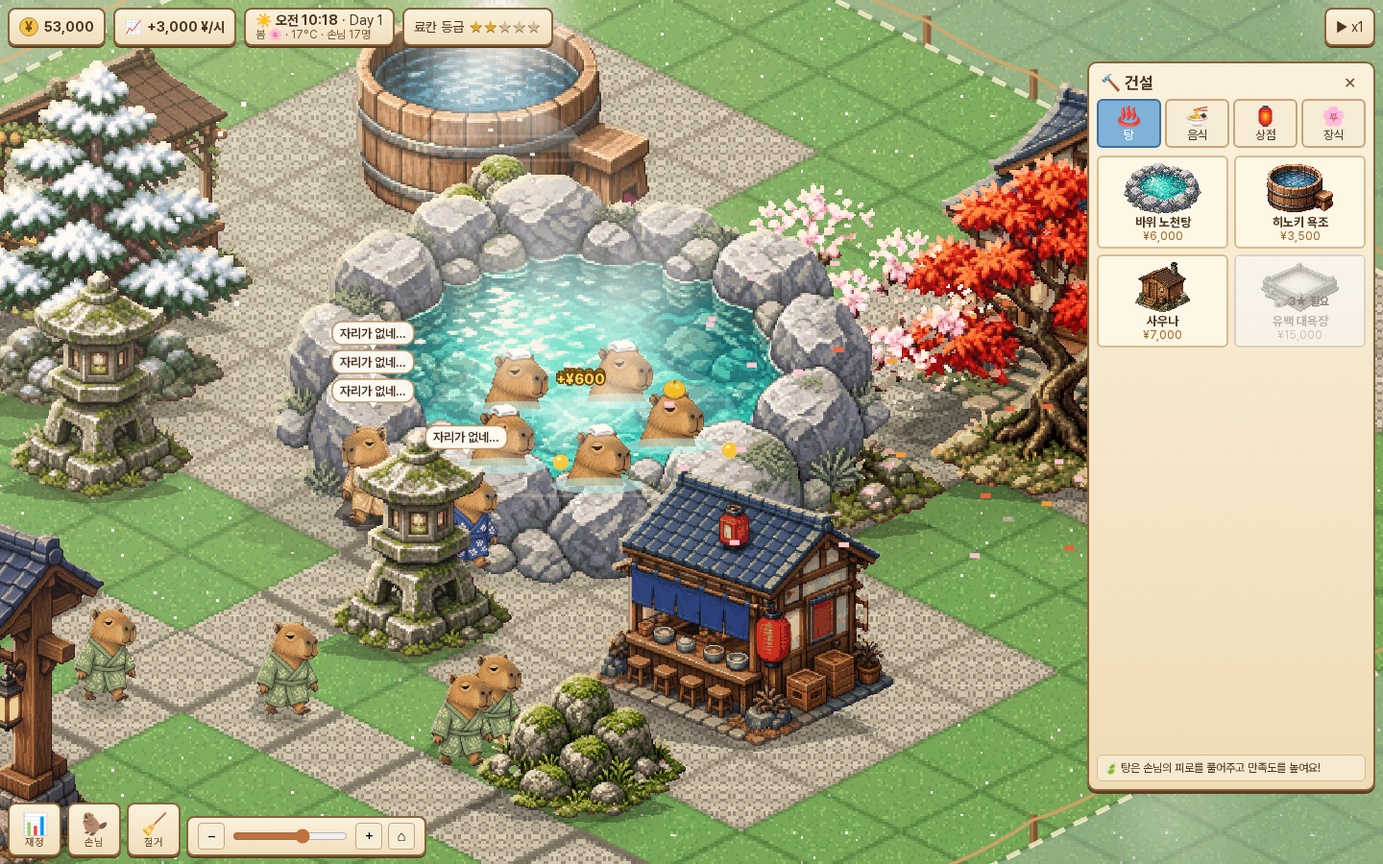
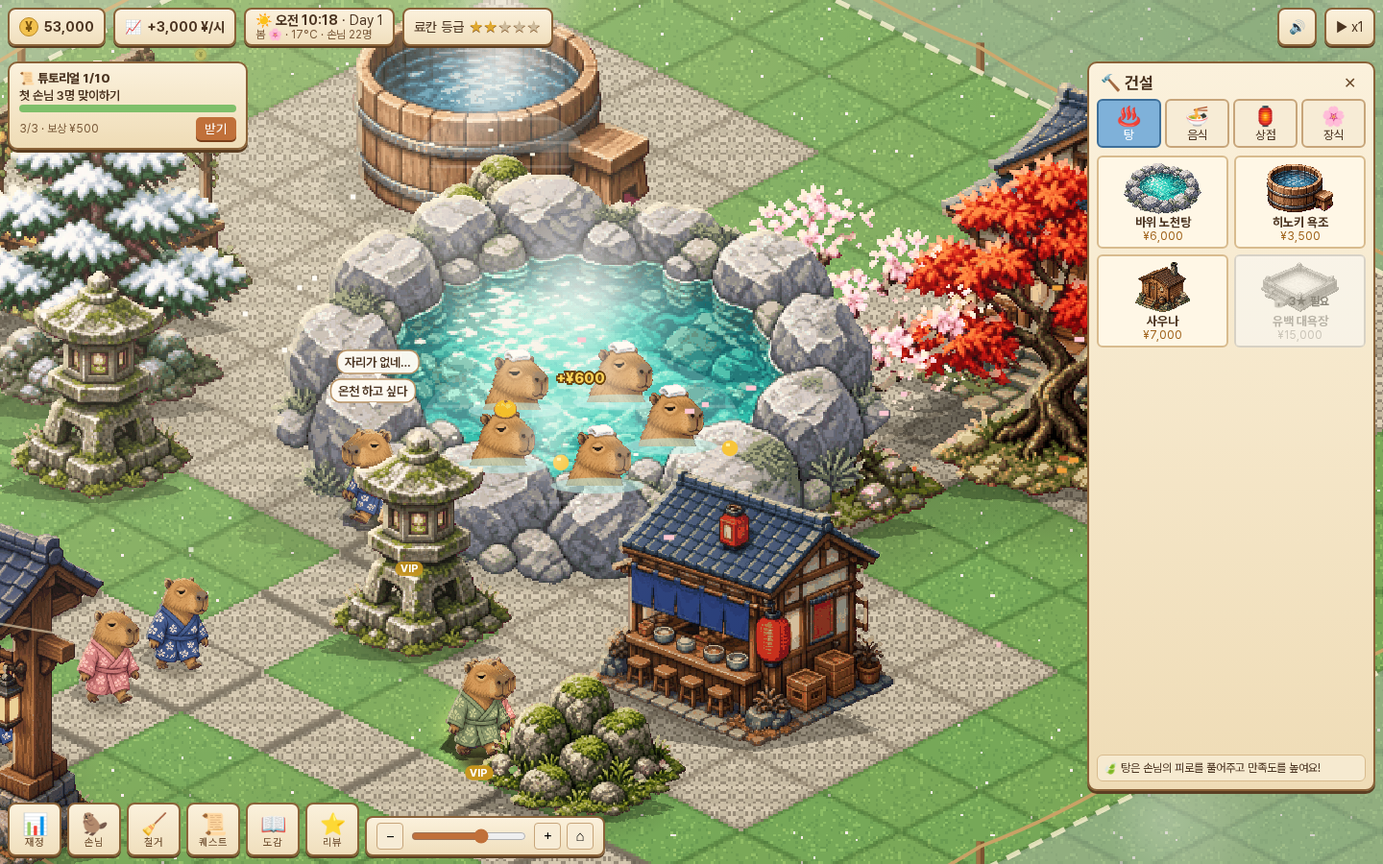
v2.4: gate 2.5D layers + z, multi-layer sprites, quests/milestones/collection/regulars/VIP/reviews, WebAudio SFX/BGM, juice, CHANGELOG

diff --git a/game.js b/game.js
@@ -1,4 +1,5 @@
 'use strict';
+const BUS={h:{},on(e,f){(this.h[e]=this.h[e]||[]).push(f)},emit(e,...a){for(const f of this.h[e]||[])try{f(...a)}catch(err){console.error(err)}}};
 // ===== 설정 =====
 const N=48,PS=16,TW=32,TH=16;           // 맵 24x24, 구역 6x6
 const START_PLOT=[1,1];
@@ -65,6 +66,18 @@ function avgNet(){const h=S.fin.hist;if(!h.length)return 0;const a=h.slice(-24);
 const TIERED=['rock','hinoki','sauna','milky','ramen','teishoku','izakaya','yuzu','gift','room'];
 const IMG={},VAR={};const NAMES=[...TIERED.flatMap(n=>[1,3,5].map(l=>n+'_lv'+l)),'rock','hinoki','sauna','milky','ramen','teishoku','izakaya','yuzu','gift','room','sakura','maple','pine','lantern','rocks','cb1','cb2','cb3','cb4','cw1','cw2','cw3','cw4','gate'];
 function loadImgs(){return Promise.all(NAMES.map(n=>new Promise(r=>{const i=new Image();i.onload=()=>{IMG[n]=i;r()};i.onerror=r;i.src='assets/'+n+'.png'})))}
+// 멀티 레이어 스프라이트: 마스크 경로 순서대로 픽셀을 잘라 레이어로 분리 (나머지 = ground)
+const roofY=(x,W,H)=>H*(0.294+0.144*x/W);
+const GATE_MASKS=[
+ ['roof',(g,W,H)=>{g.moveTo(0,0);g.lineTo(W,0);g.lineTo(W,roofY(W,W,H));g.lineTo(0,roofY(0,W,H));g.closePath()}],
+ ['noren',(g,W,H)=>{g.moveTo(W*0.274,0);g.lineTo(W*0.64,0);g.lineTo(W*0.64,H*0.6);g.lineTo(W*0.274,H*0.6);g.closePath()}],
+ ['front',(g,W,H)=>g.rect(W*0.625,0,W,H)],
+ ['back',(g,W,H)=>g.rect(0,0,W*0.41,H*0.8)]];
+const OVER={rock_lv5:0.5,milky_lv5:0.45,hinoki_lv5:0.55};
+function splitLayers(img,masks){const W=img.width,H=img.height,rest=mk(W,H),r=rest.getContext('2d');r.drawImage(img,0,0);const out={};
+ for(const[n,path]of masks){const c=mk(W,H),g=c.getContext('2d');g.drawImage(rest,0,0);g.globalCompositeOperation='destination-in';g.beginPath();path(g,W,H);g.fill();out[n]=c;
+  r.globalCompositeOperation='destination-out';r.beginPath();path(r,W,H);r.fill();r.globalCompositeOperation='source-over'}
+ out.ground=rest;return out}
 function mk(w,h){const c=document.createElement('canvas');c.width=w;c.height=h;return c}
 function variants(key,img,filter){ // 실루엣/림라이트 생성 (컴포지팅만 사용)
  const w=img.width,h=img.height,base=mk(w,h),bx=base.getContext('2d');if(filter)bx.filter=filter;bx.drawImage(img,0,0);
@@ -178,7 +191,7 @@ function spawnRate(){const h=hour();const f=h<6?0.05:h<9?0.5:h<12?0.7:h<15?0.6:h
 function spawn(){const gi=gateInfo();if(!gi)return;const[mx,my]=gi.m,[ox,oy]=gi.o;const vip=Math.random()<0.1*stars();const c=(k)=>[mx+0.5+ox*k,my+0.5+oy*k];const s0=c(5);
  guests.push({x:s0[0]+(Math.random()-0.5)*0.3,y:s0[1],tx:s0[0],ty:s0[1],path:[c(3),c(1),c(0)],st:'walk',spr:'cw'+(1+(Math.random()*4|0)),cb:'cb'+(1+(Math.random()*4|0)),
   need:{fatigue:50+Math.random()*45,hunger:20+Math.random()*60,thirst:20+Math.random()*60,fun:20+Math.random()*50},
-  budget:Math.round((2500+Math.random()*5000)*(vip?2.2:1)),happy:60,t:0,target:null,life:0,dir:1,bob:Math.random()*6,fade:0})}
+  budget:Math.round((2500+Math.random()*5000)*(vip?2.2:1)),happy:60,t:0,target:null,life:0,dir:1,bob:Math.random()*6,fade:0,vip});BUS.emit('spawn',guests[guests.length-1])}
 function pickTarget(g){
  const h=hour();
  if((h>=20||h<5)&&g.budget>2000){const r=S.objs.filter(o=>DEF[o.k].stay&&(o.users||0)<DEF[o.k].cap+o.lv-1);if(r.length)return pickBy(g,r,'fatigue')}
@@ -208,6 +221,7 @@ function bathSlot(o,i){const f=DEF[o.k].fp,c=ctr(o),n=DEF[o.k].cap+o.lv-1;const 
 function updGuest(g,dt){
  g.life+=dt;if(g.leaving&&g.path&&g.path.length<=1){g.fade=Math.max(0,g.fade-dt*1.4);if(g.fade<=0){g.dead=1;return}}else g.fade=Math.min(1,g.fade+dt*1.5);for(const k of NEEDK)g.need[k]=Math.min(100,g.need[k]+dt*(k=='fatigue'?0.2:0.9));
  g.happy=Math.max(0,Math.min(100,g.happy+(beautyAt(g.x,g.y)*0.02-0.03)*dt));
+ {const oc=OCC[(g.x|0)+','+(g.y|0)];const zt=oc&&oc.k=='gate'?3:0;g.z=(g.z||0)+(zt-(g.z||0))*Math.min(1,dt*9);if(oc&&oc.k=='gate'&&g.st=='walk')oc.sway=Math.min(0.35,(oc.sway||0)+dt*1.2)}
  if(g.st=='walk'){if(g.path&&g.path.length){g.tx=g.path[0][0];g.ty=g.path[0][1]}const dx=g.tx-g.x,dy=g.ty-g.y,d=Math.hypot(dx,dy);
   if(d<=0.05&&g.path&&g.path.length){g.path.shift();return}
   if(d>0.05){const sp=1.3*dt;g.x+=dx/d*Math.min(sp,d);g.y+=dy/d*Math.min(sp,d);g.dir=(dx-dy)>=0?1:-1;return}
@@ -226,7 +240,7 @@ function arrive(g){const o=g.target,d=DEF[o.k];g.target=null;o.users=o.users||0;
  const cap=d.cap+o.lv-1;if(o.users>=cap){think(g,'자리가 없네…');g.happy-=4;(g.used=g.used||[]).push(o);return}
  const fair=d.price*(1+o.lv*0.12)*(0.8+g.happy/150);
  if(o.price>g.budget||o.price>fair*1.45){think(g,THOUGHT.pricey[Math.random()*3|0]);g.happy-=10;(g.used=g.used||[]).push(o);return}
- g.budget-=o.price;S.yen+=o.price;S.fin.inc+=o.price;o.earn=(o.earn||0)+o.price;o.uses=(o.uses||0)+1;S.served++;
+ g.budget-=o.price;S.yen+=o.price;S.fin.inc+=o.price;o.earn=(o.earn||0)+o.price;o.uses=(o.uses||0)+1;S.served++;BUS.emit('pay',o,g,o.price);
  const[sx,sy]=toScreenT(...ctr(o));floats.push({x:ctr(o)[0],y:ctr(o)[1],t:'+¥'+fmt(o.price),l:1.6});
  o.users++;g.cur=o;g.st='use';g.t=d.stay?Math.max(30,((30-hour()+24)%24+7)*60/120):d.dur*(1+o.lv*0.1);
  if(d.bath){g.slot=freeSlot(o);const[a,b]=bathSlot(o,g.slot);g.x=a;g.y=b;g.inBath=true}else g.hide=true;
@@ -236,7 +250,7 @@ function arrive(g){const o=g.target,d=DEF[o.k];g.target=null;o.users=o.users||0;
 function freeSlot(o){const used=guests.filter(x=>x.cur===o&&x.inBath).map(x=>x.slot);for(let i=0;i<20;i++)if(!used.includes(i))return i;return 0}
 function finish(g){const o=g.cur;if(o)o.users=Math.max(0,o.users-1);(g.used=g.used||[]).push(o);if(g.used.length>3)g.used.shift();
  g.cur=null;g.hide=false;const[a,b]=door(o);g.x=a;g.y=b;g.inBath=false;g.st='walk';g.tx=g.x;g.ty=g.y;g.path=[]}
-function leave(g){g.leaving=true;g.target=null;const gi=gateInfo();if(!gi){g.dead=1;return}const[mx,my]=gi.m,[ox,oy]=gi.o;if(!goTo(g,mx,my))g.path=[[mx+0.5,my+0.5]];g.path.push([mx+0.5+ox*1.5,my+0.5+oy*1.5],[mx+0.5+ox*4,my+0.5+oy*4]);
+function leave(g){if(!g.leaving)BUS.emit('leave',g);g.leaving=true;g.target=null;const gi=gateInfo();if(!gi){g.dead=1;return}const[mx,my]=gi.m,[ox,oy]=gi.o;if(!goTo(g,mx,my))g.path=[[mx+0.5,my+0.5]];g.path.push([mx+0.5+ox*1.5,my+0.5+oy*1.5],[mx+0.5+ox*4,my+0.5+oy*4]);
  S.rep=S.rep*0.97+g.happy*0.03;if(g.happy>70&&Math.random()<0.5)think(g,'또 올게요~');}
 const toScreenT=(x,y)=>{const[a,b]=iso(x,y);return toScreen(a,b)};
 function upFx(o){const f=DEF[o.k].fp,c=ctr(o);for(let i=0;i<70;i++){const a=Math.random()*6.28,r=Math.random()*f*0.6;parts.push({k:'spark',x:c[0]+Math.cos(a)*r,y:c[1]+Math.sin(a)*r,h:Math.random()*10,vh:12+Math.random()*25,l:1.2+Math.random(),L:2})}
@@ -249,7 +263,7 @@ function emit(dt){
   if(d.emit&&Math.random()<dt*2.2){parts.push({k:d.emit,x:o.x+0.5+(Math.random()-0.5)*4,y:o.y+0.5+(Math.random()-0.5)*4,h:30+Math.random()*25,vx:0,l:6,L:6,ph:Math.random()*6})}}
  if(season()==3&&Math.random()<dt*6){const r=rng(Date.now()|0);parts.push({k:'snow',x:Math.random()*N,y:Math.random()*N,h:60,l:8,L:8,ph:Math.random()*6})}
 }
-function updParts(dt){for(const p of parts){p.l-=dt;if(p.k=='spark'){p.h+=p.vh*dt;p.vh*=0.96;continue}if(p.k=='dust'){p.x+=p.vx*dt;p.y+=p.vy*dt;p.vx*=0.92;p.vy*=0.92;continue}if(p.k=='steam'){p.h+=dt*9;p.x+=p.vx*dt;p.s+=dt*2.5}else{if(p.h>0){p.h-=dt*(p.k=='snow'?6:8);p.ph+=dt*2;p.x+=Math.sin(p.ph)*dt*0.25+dt*0.12}else{p.h=0;p.l=Math.min(p.l,1.5)}}}
+function updParts(dt){for(const o of S.objs)if(o.sway)o.sway=Math.max(0,o.sway-dt*0.35);for(const p of parts){p.l-=dt;if(p.k=='spark'){p.h+=p.vh*dt;p.vh*=0.96;continue}if(p.k=='dust'){p.x+=p.vx*dt;p.y+=p.vy*dt;p.vx*=0.92;p.vy*=0.92;continue}if(p.k=='steam'){p.h+=dt*9;p.x+=p.vx*dt;p.s+=dt*2.5}else{if(p.h>0){p.h-=dt*(p.k=='snow'?6:8);p.ph+=dt*2;p.x+=Math.sin(p.ph)*dt*0.25+dt*0.12}else{p.h=0;p.l=Math.min(p.l,1.5)}}}
  parts=parts.filter(p=>p.l>0);floats.forEach(f=>f.l-=dt);floats=floats.filter(f=>f.l>0);bubbles.forEach(b=>b.l-=dt);bubbles=bubbles.filter(b=>b.l>0&&!b.g.dead&&!b.g.hide);
  for(const k in anims){anims[k].t+=dt;if(anims[k].t>1.6)delete anims[k]}}
 // ===== 렌더 =====
@@ -280,7 +294,9 @@ function render(t){
  if(paint){const{t}=paintPlan();const er=DEF[ghost].erase;cx.fillStyle=er?'rgba(240,110,100,0.5)':'rgba(140,230,140,0.5)';for(const[x,y]of t){const[X,Y]=iso(x,y);cx.beginPath();cx.moveTo(X,Y);cx.lineTo(X+16,Y+8);cx.lineTo(X,Y+16);cx.lineTo(X-16,Y+8);cx.fill()}}
  // 그림자 + 오브젝트 + 손님 정렬
  const list=[];
- for(const o of S.objs){if(!!DEF[o.k].isPath||o===moving)continue;const t=tilesOf(o),l=t[t.length-1];list.push({x0:o.x,y0:o.y,x1:l[0]+1,y1:l[1]+1,o})}
+ for(const o of S.objs){if(!!DEF[o.k].isPath||o===moving)continue;const t=tilesOf(o),l=t[t.length-1];
+  if(o.k=='gate'){list.push({x0:t[0][0],y0:t[0][1],x1:t[0][0]+1,y1:t[0][1]+1,o,part:'back'});list.push({x0:l[0],y0:l[1],x1:l[0]+1,y1:l[1]+1,o,part:'front'});continue}
+  list.push({x0:o.x,y0:o.y,x1:l[0]+1,y1:l[1]+1,o})}
  for(const g of guests)if(!g.hide&&!g.inBath)list.push({x0:g.x-0.15,y0:g.y-0.15,x1:g.x+0.15,y1:g.y+0.15,g});
  list.forEach(a=>a.z=a.x1+a.y1);
  const cmp=(a,b)=>{if(a.x1<=b.x0+1e-3&&!(b.x1<=a.x0))return a.y0>=b.y1?1:-1;if(b.x1<=a.x0+1e-3)return b.y0>=a.y1?-1:1;if(a.y1<=b.y0+1e-3)return -1;if(b.y1<=a.y0+1e-3)return 1;return a.z-b.z};
@@ -291,13 +307,17 @@ function render(t){
   const pts=guests.filter(g=>!g.hide&&!g.inBath&&g.x<it.x1&&g.y<it.y1&&!(g.x>=it.x0&&g.y>=it.y0)&&(g.x+g.y)<it.x1+it.y1-0.5).map(g=>iso(g.x,g.y));
   if(hoverT&&ghost)pts.push(iso(hoverT[0]+0.5,hoverT[1]+0.5));
   if(pts.some(([X,Y])=>Math.abs(X-G.X)<G.W*0.42&&Y<G.Y-6&&Y>G.Y-G.H*0.9))hidden.add(o)}
- for(const it of list)if(it.o){const o=it.o,G=objGeom(o),key=skey(o);ao(G.X,G.cY,G.W*0.5,G.W*0.25,0.3);drawShadow(key,G.X,G.Y,G.W,lt,sv,DEF[o.k].bath?0.4:1)}
+ for(const it of list)if(it.o&&it.part!='front'){const o=it.o,G=objGeom(o),key=skey(o);if(o.k=='gate'){drawSprite(key+'_ground',o,G.X,G.Y,G.W,lt,sv,1)}ao(G.X,G.cY,G.W*0.5,G.W*0.25,0.3);drawShadow(key,G.X,G.Y,G.W,lt,sv,DEF[o.k].bath?0.4:1)}
  for(const it of list){
-  if(it.o){const o=it.o,d=DEF[o.k],G=objGeom(o);const an=anims['o'+S.objs.indexOf(o)];const pop=an?Math.min(1,an.t*3):1;
+  if(it.part){const o=it.o,G=objGeom(o);drawSprite(skey(o)+'_'+it.part,o,G.X,G.Y,G.W,lt,sv,1)}
+  else if(it.o){const o=it.o,d=DEF[o.k],G=objGeom(o);const an=anims['o'+S.objs.indexOf(o)];const pop=an?Math.min(1,an.t*3):1;
    const Wp=G.W*(0.7+0.3*easeOut(pop));const fade=hidden.has(o)&&!d.bath&&d.fp>1;drawSprite(skey(o),o,G.X,G.Y,Wp,lt,sv,pop*(fade?0.5:1));
-   if(d.bath){drawWater(o,G,t,lt);guests.filter(g=>g.inBath&&g.cur===o).sort((a,b)=>a.x+a.y-b.x-b.y).forEach(g=>drawGuest(g,t,lt,sv))}
+   if(d.bath){drawWater(o,G,t,lt);guests.filter(g=>g.inBath&&g.cur===o).sort((a,b)=>a.x+a.y-b.x-b.y).forEach(g=>drawGuest(g,t,lt,sv));const ov=skey(o)+'_over';if(VAR[ov]&&guests.some(g=>g.inBath&&g.cur===o))drawSprite(ov,o,G.X,G.Y,Wp,lt,sv,pop)}
    if(o.lv>1){for(let i=0;i<o.lv-1;i++){cx.fillStyle='#f6cf5a';cx.fillRect(G.X-8+i*4,G.Y+1,3,3)}}}
   else drawGuest(it.g,t,lt,sv);}
+ // 대문 지붕·노렌 (항상 손님 위) + 노렌 흔들림
+ for(const o of S.objs){if(o.k!='gate'||o===moving)continue;const G=objGeom(o),k=skey(o);drawSprite(k+'_roof',o,G.X,G.Y,G.W,lt,sv,1);
+  const sw=Math.sin(t/140)*(o.sway||0);const top=G.Y-G.H*0.66;cx.save();cx.translate(G.X,top);cx.transform(1,0,sw*(o.dir=='y'?-1:1),1,0,0);cx.translate(-G.X,-top);drawSprite(k+'_noren',o,G.X,G.Y,G.W,lt,sv,1);cx.restore()}
  // 파티클
  for(const p of parts){const[X,Y]=iso(p.x,p.y);const a=Math.min(1,p.l/p.L*2)*(p.k=='steam'?1:1);
   if(p.k=='steam'){cx.globalAlpha=0.22*Math.min(1,p.l)*(1-0.4*lt.night);const r=p.s;const g=cx.createRadialGradient(X,Y-p.h,0,X,Y-p.h,r);g.addColorStop(0,'rgba(255,255,255,1)');g.addColorStop(1,'rgba(255,255,255,0)');cx.fillStyle=g;cx.fillRect(X-r,Y-p.h-r,r*2,r*2)}
@@ -351,13 +371,13 @@ function drawWater(o,G,t,lt){const d=DEF[o.k],f=d.fp;const[cX,cY]=iso(o.x+f/2,o.
  const r=rng(Math.floor(t/220)+o.x*31);for(let i=0;i<10;i++){const a=r()*6.28,rr=Math.sqrt(r());cx.fillStyle=`rgba(255,255,240,${0.5+0.5*lt.sun})`;cx.fillRect(cX+Math.cos(a)*rx*rr,cY+Math.sin(a)*ry*rr,1,0.6)}
  if(lt.night>0.4){cx.fillStyle=`rgba(255,200,120,${0.12*lt.night})`;cx.fillRect(cX-rx,cY-ry,rx*2,ry*2)}
  cx.restore();}
-function drawGuest(g,t,lt,sv){const[X,Y]=iso(g.x,g.y);
+function drawGuest(g,t,lt,sv){const[X,Y]=iso(g.x,g.y);if(g.vip||g.reg){cx.save();cx.globalCompositeOperation='lighter';const gr=cx.createRadialGradient(X,Y-6,0,X,Y-6,12);gr.addColorStop(0,g.vip?'rgba(255,215,90,0.35)':'rgba(140,200,255,0.28)');gr.addColorStop(1,'rgba(0,0,0,0)');cx.fillStyle=gr;cx.fillRect(X-12,Y-18,24,24);cx.restore()}
  if(g.inBath){const v=VAR[g.cb];if(!v)return;const W=17,h=W*v.base.height/v.base.width,bob=Math.sin(t/600+g.bob)*0.4,ch=h*0.8;
   cx.drawImage(v.base,0,0,v.base.width,v.base.height*0.8,X-W/2,Y-ch+2+bob,W,ch);
   cx.fillStyle='rgba(180,240,240,0.55)';cx.beginPath();cx.ellipse(X,Y+2+bob,W*0.55,1.6,0,0,6.283);cx.fill();
   if(g.slot%3==1){const yx=X+W*0.7,yy=Y+2+Math.sin(t/700+g.bob)*0.6;cx.fillStyle='#f6c431';cx.beginPath();cx.arc(yx,yy,1.6,0,6.283);cx.fill();cx.fillStyle='#fff3a0';cx.fillRect(yx-0.8,yy-1,0.8,0.6)}
   return}
- const v=VAR[g.spr];if(!v)return;const W=14,h=W*v.base.height/v.base.width;const moving=Math.hypot(g.tx-g.x,g.ty-g.y)>0.05;const bob=moving?Math.abs(Math.sin(t/120+g.bob))*1.2:0;
+ const v=VAR[g.spr];if(!v)return;const W=14,h=W*v.base.height/v.base.width;const moving=Math.hypot(g.tx-g.x,g.ty-g.y)>0.05;const bob=(moving?Math.abs(Math.sin(t/120+g.bob))*1.2:0)+(g.z||0);
  cx.globalAlpha=g.fade;ao(X,Y,5,2.2,0.35);
  if(lt.sun>0.1){cx.save();cx.globalAlpha=0.25*lt.sun*g.fade;cx.translate(X,Y);cx.transform(1,0,-sv.kx,sv.ky,0,0);cx.drawImage(v.sil,-W/2,-h,W,h);cx.restore()}
  cx.globalAlpha=g.fade;cx.save();cx.translate(X,Y-bob);cx.scale(g.dir,1);cx.drawImage(v.base,-W/2,-h,W,h);if(lt.sun>0.15){cx.globalAlpha=0.45*lt.sun*g.fade;cx.drawImage(sv.left?v.rimL:v.rimR,-W/2,-h,W,h)}cx.restore();cx.globalAlpha=1}
@@ -371,9 +391,10 @@ function drawPlots(t,lt){const P=N/PS;window._signs=[];
   // 안개 덩어리
   const r=rng(px*7+py*13+3);for(let i=0;i<14;i++){const fx=x0+r()*PS,fy=y0+r()*PS;const[X,Y]=iso(fx,fy);const s=10+r()*10;const g=cx.createRadialGradient(X+Math.sin(t/4000+i)*6,Y,0,X,Y,s);g.addColorStop(0,`rgba(255,255,255,${0.22*fog})`);g.addColorStop(1,'rgba(255,255,255,0)');cx.fillStyle=g;cx.fillRect(X-s,Y-s,s*2,s*2)}cx.restore();
   if(!open&&plotAdj(px,py)){ // 로프 울타리
-   cx.strokeStyle='#c9a46a';cx.lineWidth=0.7;for(let e=0;e<4;e++){const a=c[e],b=c[(e+1)%4];
-    for(let s=0;s<=12;s++){const X=lerp(a[0],b[0],s/12),Y=lerp(a[1],b[1],s/12);cx.fillStyle='#7a5432';cx.fillRect(X-0.8,Y-6,1.6,6);cx.fillStyle='#a07448';cx.fillRect(X-0.8,Y-6,0.8,6)}
-    cx.beginPath();for(let s=0;s<12;s++){const X1=lerp(a[0],b[0],s/12),Y1=lerp(a[1],b[1],s/12),X2=lerp(a[0],b[0],(s+1)/12),Y2=lerp(a[1],b[1],(s+1)/12);cx.moveTo(X1,Y1-5);cx.quadraticCurveTo((X1+X2)/2,(Y1+Y2)/2-3,X2,Y2-5)}cx.stroke()}
+   const T=[[x0,y0],[x0+PS,y0],[x0+PS,y0+PS],[x0,y0+PS]];const gi=gateInfo();const gm=gi?[gi.m[0]+0.5+gi.o[0]*0.5,gi.m[1]+0.5+gi.o[1]*0.5]:null;const NS=8;
+   cx.strokeStyle='#c9a46a';cx.lineWidth=0.7;for(let e=0;e<4;e++){const A=T[e],B=T[(e+1)%4];const P=k=>[lerp(A[0],B[0],k/NS),lerp(A[1],B[1],k/NS)];const skip=k=>{if(!gm)return false;const p=P(k+0.5);return Math.hypot(p[0]-gm[0],p[1]-gm[1])<1.7};
+    for(let k=0;k<=NS;k++){if(skip(k)&&skip(k-1))continue;const[X,Y]=iso(...P(k));cx.fillStyle='#7a5432';cx.fillRect(X-0.8,Y-6,1.6,6);cx.fillStyle='#a07448';cx.fillRect(X-0.8,Y-6,0.8,6)}
+    cx.beginPath();for(let k=0;k<NS;k++){if(skip(k))continue;const[X1,Y1]=iso(...P(k)),[X2,Y2]=iso(...P(k+1));cx.moveTo(X1,Y1-5);cx.quadraticCurveTo((X1+X2)/2,(Y1+Y2)/2-3,X2,Y2-5)}cx.stroke()}
    const[sX,sY]=iso(x0+PS/2,y0+PS/2);cx.fillStyle='#6b4a2b';cx.fillRect(sX-1,sY-10,2,10);
    window._signs.push({px,py,X:sX,Y:sY-16,price:plotPrice(px,py)})}}}
 function drawText(t,lt){ // 고해상도 텍스트 레이어
@@ -382,6 +403,7 @@ function drawText(t,lt){ // 고해상도 텍스트 레이어
  for(const f of floats){const[X,Y]=toScreenT(f.x,f.y);const a=Math.min(1,f.l);tx.globalAlpha=a;tx.font='800 15px Pretendard';tx.lineWidth=3;tx.strokeStyle='#6b4310';const yy=Y-40-(1.6-f.l)*30;tx.strokeText(f.t,X,yy);tx.fillStyle='#ffd65a';tx.fillText(f.t,X,yy)}
  tx.globalAlpha=1;
  if(paint&&paintCursor){const{t,cost}=paintPlan();const s_=(DEF[ghost].erase?'환불 ':'')+`${t.length}칸 · ¥${fmt(Math.abs(cost))}`;tx.font='700 14px Pretendard';const w=tx.measureText(s_).width+20;tx.fillStyle='rgba(74,51,32,0.92)';rr(tx,paintCursor[0]+14,paintCursor[1]-34,w,26,8);tx.fill();tx.fillStyle='#fff';tx.textAlign='left';tx.fillText(s_,paintCursor[0]+24,paintCursor[1]-21);tx.textAlign='center'}
+ BUS.emit('text',tx);
  const placed=[];for(const b of bubbles){const g=b.g;const[X0,Y0]=toScreenT(g.x,g.y);let Y=Y0-(g.inBath?14:26)*cam.z-8;tx.font='600 13px Pretendard';const w=tx.measureText(b.t).width+16;
   for(let k=0;k<6;k++){const hit=placed.find(p=>Math.abs(p[0]-X0)<(p[2]+w)/2+4&&Math.abs(p[1]-Y)<28);if(!hit)break;Y=hit[1]-30}placed.push([X0,Y,w]);
   tx.globalAlpha=Math.min(1,b.l*2);tx.fillStyle='rgba(255,252,244,0.96)';tx.strokeStyle='#b89366';tx.lineWidth=1.5;rr(tx,X0-w/2,Y-13,w,24,10);tx.fill();tx.stroke();
@@ -410,7 +432,7 @@ function showInfo(o){if(o.k=='gate'){const el=$('info');el.style.display='block'
   <div style="font-size:12px;color:#7a5a3a;margin-top:4px">적정가 약 ¥${fmt(d.price*(1+o.lv*0.12))} · 너무 비싸면 손님이 돌아가요</div>`:`<div class="row"><span>아름다움</span><b>+${d.beauty}</b></div>`)+
  `<div style="margin-top:6px">${o.lv<5&&d.price?`<button class="b" id="iUp">업그레이드 ¥${fmt(up)}</button>`:''}<button class="b g" id="iMove">이동</button><button class="b g" id="iDel">철거</button><button class="b g" id="iCl">닫기</button></div>`;
  el.querySelectorAll('[data-p]').forEach(b=>b.onclick=()=>{const p=+b.dataset.p;o.price=p==0?d.price:Math.max(50,Math.round(o.price*(1+p)/10)*10);showInfo(o)});
- if($('iUp'))$('iUp').onclick=()=>{if(S.yen<up)return toast('엔이 부족해요');S.yen-=up;S.fin.exp+=up;o.lv++;anims['o'+S.objs.indexOf(o)]={t:0};upFx(o);toast(`${d.n} Lv.${o.lv}!${o.lv==3||o.lv==5?' 외관이 바뀌었어요 ✨':''}`);showInfo(o);save()};
+ if($('iUp'))$('iUp').onclick=()=>{if(S.yen<up)return toast('엔이 부족해요');S.yen-=up;S.fin.exp+=up;o.lv++;anims['o'+S.objs.indexOf(o)]={t:0};upFx(o);BUS.emit('upgrade',o);toast(`${d.n} Lv.${o.lv}!${o.lv==3||o.lv==5?' 외관이 바뀌었어요 ✨':''}`);showInfo(o);save()};
  $('iDel').onclick=()=>remove(o);$('iMove').onclick=()=>startMove(o);$('iCl').onclick=()=>el.style.display='none';}
 function remove(o){if(o.k=='gate')return toast('대문은 철거할 수 없어요. 이동만 가능해요');if(S.objs.length<=1)return;S.yen+=Math.floor(DEF[o.k].cost*0.4);guests.forEach(g=>{if(g.cur===o)finish(g);if(g.target===o)g.target=null});S.objs.splice(S.objs.indexOf(o),1);OCC=occ();groundDirty=true;$('info').style.display='none';save()}
 function modalFin(){const m=$('modal');const wages=S.objs.reduce((s,o)=>s+(DEF[o.k].wage||0)*o.lv,0),up=S.objs.length*8;
@@ -430,7 +452,7 @@ function onTap(sx,sy){const[fx,fy]=toTile(sx,sy);const x=Math.floor(fx),y=Math.f
   S.yen-=d.cost;S.fin.exp+=d.cost;S.objs.push({k:ghost,x,y,lv:1,price:d.price||0,uses:0,earn:0});anims['o'+(S.objs.length-1)]={t:0};OCC=occ();groundDirty=true;
   for(let i=0;i<10;i++)parts.push({k:'steam',x:x+d.fp/2+(Math.random()-0.5)*d.fp,y:y+d.fp/2+(Math.random()-0.5)*d.fp,h:0,vx:0,l:1,L:1,s:2});if(ghost=='path'){}else if(!ev.shift){ghost=null;buildCards()}save();return}
  const o=OCC[x+','+y];if(o){if(mode=='del'){remove(o);return}clearTimeout(infoT);infoT=setTimeout(()=>{if(!moving)showInfo(o)},330)}else $('info').style.display='none'}
-function unlock(s){const k=s.px+','+s.py;if(S.yen<s.price)return toast(`구역 확장에 ¥${fmt(s.price)} 필요해요`);S.yen-=s.price;S.fin.exp+=s.price;S.plots[k]=1;anims['p'+k]={t:0};toast('🎉 새 구역이 열렸어요!');
+function unlock(s){const k=s.px+','+s.py;if(S.yen<s.price)return toast(`구역 확장에 ¥${fmt(s.price)} 필요해요`);S.yen-=s.price;S.fin.exp+=s.price;S.plots[k]=1;BUS.emit('unlock',k);anims['p'+k]={t:0};toast('🎉 새 구역이 열렸어요!');
  for(let i=0;i<40;i++)parts.push({k:'petal',x:s.px*PS+Math.random()*PS,y:s.py*PS+Math.random()*PS,h:20+Math.random()*30,l:3,L:3,ph:Math.random()*6});save()}
 const ev={shift:false};
 function initInput(){
@@ -465,12 +487,12 @@ function paintPlan(){const k=ghost,er=DEF[k].erase;const t=paintTiles(paint).fil
  return{t,cost:er?-t.reduce((s,[x,y])=>s+Math.floor(DEF[OCC[x+','+y].k].cost/2),0):t.length*DEF[k].cost}}
 function applyPaint(){const k=ghost,{t,cost}=paintPlan();if(!t.length)return;if(cost>S.yen)return toast(`엔이 부족해요 (¥${fmt(cost)} 필요)`);
  const set=new Set(t.map(p=>p.join(',')));S.objs=S.objs.filter(o=>!(DEF[o.k].isPath&&set.has(o.x+','+o.y)));
- if(!DEF[k].erase)for(const[x,y]of t)S.objs.push({k,x,y,lv:1,price:0,uses:0,earn:0});S.yen-=cost;if(cost>0)S.fin.exp+=cost;
+ if(!DEF[k].erase)for(const[x,y]of t)S.objs.push({k,x,y,lv:1,price:0,uses:0,earn:0});S.yen-=cost;if(cost>0)S.fin.exp+=cost;if(!DEF[k].erase)BUS.emit('paint',k,t.length);
  for(const[x,y]of t.slice(0,30))parts.push({k:'dust',x:x+0.5,y:y+0.5,vx:(Math.random()-0.5),vy:(Math.random()-0.5),h:1,l:0.6,L:0.6});
  OCC=occ();groundDirty=true;guests.forEach(g=>{if(g.st=='walk'&&g.target){const tg=g.target;const d=doorTile(tg);if(d)goTo(g,d[0],d[1])}});toast(DEF[k].erase?`길 ${t.length}칸 제거 (+¥${fmt(-cost)})`:`${DEF[k].n} ${t.length}칸 · ¥${fmt(cost)}`);save()}
 function placeAt(){const[x,y]=hoverT;const[sx,sy]=toScreenT(x+0.5,y+0.5);onTapPlace(x,y)}
 function onTapPlace(x,y){if(moving)return dropMove(x,y);if(!canPlace(ghost,x,y))return toast(tileOpen(x,y)?'여기엔 지을 수 없어요':'잠긴 구역이에요. 표지판을 눌러 열어주세요');const d=DEF[ghost];if(S.yen<d.cost)return toast('엔이 부족해요');
- S.yen-=d.cost;S.fin.exp+=d.cost;clearPaths(ghost,x,y);S.objs.push({k:ghost,x,y,lv:1,price:d.price||0,uses:0,earn:0});anims['o'+(S.objs.length-1)]={t:0};OCC=occ();groundDirty=true;
+ S.yen-=d.cost;S.fin.exp+=d.cost;clearPaths(ghost,x,y);S.objs.push({k:ghost,x,y,lv:1,price:d.price||0,uses:0,earn:0});BUS.emit('build',S.objs[S.objs.length-1]);anims['o'+(S.objs.length-1)]={t:0};OCC=occ();groundDirty=true;
  for(let i=0;i<10;i++)parts.push({k:'steam',x:x+d.fp/2+(Math.random()-0.5)*d.fp,y:y+d.fp/2+(Math.random()-0.5)*d.fp,h:0,vx:0,l:1,L:1,s:2});
  if(ghost!='path'&&!ev.shift){ghost=null;buildCards()}save()}
 let zoomTarget=null,homeAnim=null;
@@ -479,7 +501,7 @@ let last=0,acc=0,hourAcc=0,saveAcc=0;
 function step(dt){
  const gm=dt*2; // 실시간 1초 = 게임 2분
  const prevH=Math.floor(S.min/60);S.min+=gm;const nowH=Math.floor(S.min/60);
- if(nowH!=prevH){const wages=S.objs.reduce((s,o)=>s+(DEF[o.k].wage||0)*o.lv,0)+S.objs.length*8;S.yen-=wages;S.fin.exp+=wages;
+ if(nowH!=prevH){const wages=S.objs.reduce((s,o)=>s+(DEF[o.k].wage||0)*o.lv,0)+S.objs.filter(o=>!DEF[o.k].isPath).length*8;S.yen-=wages;BUS.emit('hour',nowH);if(nowH%24==0)BUS.emit('day',Math.floor(nowH/24)+1);S.fin.exp+=wages;
   S.fin.hist.push((S.fin._h||0)-wages);S.fin._h=0;if(S.fin.hist.length>48)S.fin.hist.shift();if(nowH%24==0){S.fin.inc=0;S.fin.exp=0}}
  const before=S.yen;
  if(Math.random()<dt*spawnRate()*3&&guests.length<12+stars()*8)spawn();
@@ -502,7 +524,10 @@ function frame(now){warnAcc+=1;if(warnAcc%90==1)checkReach();const dt=Math.min(0
  requestAnimationFrame(frame)}
 async function boot(){resize();addEventListener('resize',resize);load();S.objs.forEach(o=>o.users=0);migrateLayout();migrate();OCC=occ();ensureGate();OCC=occ();
  await Promise.all([loadImgs(),document.fonts.load('700 14px Pretendard'),document.fonts.ready]);
- for(const n of NAMES)if(IMG[n])variants(n,IMG[n]);variants('milk',IMG.yuzu,DEF.milk.filter);if(IMG.gate){const c=mk(IMG.gate.width,IMG.gate.height),g=c.getContext('2d');g.translate(c.width,0);g.scale(-1,1);g.drawImage(IMG.gate,0,0);variants('gate_f',c)}for(const l of[1,3,5])if(IMG['yuzu_lv'+l])variants('milk_lv'+l,IMG['yuzu_lv'+l],DEF.milk.filter);
+ for(const n of NAMES)if(IMG[n])variants(n,IMG[n]);variants('milk',IMG.yuzu,DEF.milk.filter);if(IMG.gate){const flip=src=>{const c=mk(src.width,src.height),g=c.getContext('2d');g.translate(c.width,0);g.scale(-1,1);g.drawImage(src,0,0);return c};variants('gate_f',flip(IMG.gate));
+  const L=splitLayers(IMG.gate,GATE_MASKS);for(const n in L){variants('gate_'+n,L[n]);variants('gate_f_'+n,flip(L[n]))}}
+ for(const k in OVER){if(!IMG[k])continue;const L=splitLayers(IMG[k],[['over',(g,W,H)=>g.rect(0,0,W,H*OVER[k])]]);variants(k+'_over',L.over);if(k=='yuzu_lv5'){}}
+ for(const l of[1,3,5]){}for(const l of[1,3,5])if(IMG['yuzu_lv'+l])variants('milk_lv'+l,IMG['yuzu_lv'+l],DEF.milk.filter);
  // 기존 이름 매핑
  DEF.milk.img='milk';
  const b=S.objs.find(o=>DEF[o.k].bath)||S.objs[0];focus(b.x+DEF[b.k].fp/2,b.y+DEF[b.k].fp/2,VW>820?5.2:3.6);

diff --git a/meta.js b/meta.js
@@ -1,0 +1,85 @@
+'use strict';
+// ===== 퀘스트 · 마일스톤 · 도감 · 단골/VIP · 리뷰 · 연출 =====
+const QX=(()=>{
+ const M=()=>{if(!S.meta)S.meta={tut:0,stats:{earned:0,built:0,decor:0,upgrades:0,paint:0,vip:0,good:0,unlock:0,price:0,regular:0},daily:null,weekly:null,ms:[],col:{g:{},i:{}},regs:{},reviews:[]};return S.meta};
+ const st=()=>M().stats;
+ const hasK=k=>S.objs.some(o=>o.k==k);
+ const TUT=[
+  ['첫 손님 3명 맞이하기',()=>[S.served,3],500],
+  ['우유 매점 짓기 (상점 탭)',()=>[hasK('milk')?1:0,1],800],
+  ['장식 2개 놓기 (장식 탭)',()=>[st().decor,2],600],
+  ['길 10칸 칠하기 (드래그)',()=>[st().paint,10],500],
+  ['바위 노천탕 Lv2 업그레이드',()=>[Math.max(0,...S.objs.filter(o=>o.k=='rock').map(o=>o.lv))>=2?1:0,1],1500],
+  ['라멘집 짓기 (음식 탭)',()=>[hasK('ramen')?1:0,1],1500],
+  ['시설 이용 요금 조정해보기',()=>[st().price>0?1:0,1],500],
+  ['손님 30명 맞이하기',()=>[S.served,30],3000],
+  ['료칸 등급 2★ 달성',()=>[stars()>=2?1:0,1],3000],
+  ['새 구역 열기 (표지판 클릭)',()=>[st().unlock,1],5000]];
+ const DPOOL=[['served','손님 {n}명 맞이',[20,35,50],60],['earned','¥{n} 벌기',[6000,12000,20000],0.12],['decor','장식 {n}개 놓기',[1,2,3],400],['upgrades','시설 {n}번 업그레이드',[1,2],900],['paint','길 {n}칸 칠하기',[8,15],40],['good','좋은 리뷰 {n}개 받기',[3,5],300],['vip','VIP 손님 {n}명 접대',[1,2],1200]];
+ const WPOOL=[['served','손님 {n}명 맞이',[150,250],30],['earned','¥{n} 벌기',[60000,120000],0.1],['upgrades','시설 {n}번 업그레이드',[5,8],1000],['vip','VIP 손님 {n}명 접대',[5,8],1200]];
+ const MILES=[['served',[10,50,100,250,500,1000,2500],'누적 손님 {n}명',n=>n*30],['earned',[10000,50000,200000,500000,1000000],'누적 매출 ¥{n}',n=>n*0.08],['upgrades',[1,5,15,30],'업그레이드 {n}회',n=>n*500],['unlock',[1,3,8],'구역 {n}개 확장',n=>n*4000],['decor',[5,15,40],'장식 {n}개',n=>n*300],['vip',[1,10,30],'VIP {n}명 접대',n=>n*800]];
+ const REGS=[['유자','cw1','유자 노천탕 마니아'],['모모','cw2','벚꽃 구경을 좋아해요'],['코타로','cw3','라멘 한 그릇은 필수'],['하나','cw4','기념품 수집가'],['텐','cw1','사우나 장인'],['소라','cw2','밤 온천파'],['키나코','cw3','커피우유 애호가'],['단고','cw4','이자카야 단골']];
+ const seedPick=(pool,seed,n)=>{const r=rng(seed*7919+13),a=pool.slice(),out=[];while(out.length<n&&a.length){out.push(a.splice(Math.floor(r()*a.length),1)[0])}return out};
+ function mkSet(pool,seed,n){const r=rng(seed*31+7);return seedPick(pool,seed,n).map(([key,txt,goals,rw])=>{const goal=goals[Math.floor(r()*goals.length)];return{key,txt:txt.replace('{n}',fmt(goal)),goal,base:key=='served'?S.served:(st()[key]||0),rw:Math.round(rw<1?goal*rw:goal*rw),claimed:false}})}
+ const cur=q=>(q.key=='served'?S.served:(st()[q.key]||0))-q.base;
+ function ensureSets(){const m=M(),d=dayN();if(!m.daily||m.daily.day!=d){m.daily={day:d,list:mkSet(DPOOL,d,3)}}const w=Math.floor((d-1)/7);if(!m.weekly||m.weekly.w!=w){m.weekly={w,list:mkSet(WPOOL,w+100,2)}}}
+ function reward(y,label){S.yen+=y;S.fin.inc+=y;toast(`🎁 ${label} 보상 ¥${fmt(y)}!`);SND.quest();burst();save();render_()}
+ // ----- UI -----
+ const box=document.createElement('div');box.id='quest';document.body.appendChild(box);
+ function render_(){const m=M();ensureSets();
+  if(m.tut<TUT.length){const[t,f,rw]=TUT[m.tut];const[a,b]=f();const done=a>=b;
+   box.innerHTML=`<div class="qh">📜 튜토리얼 ${m.tut+1}/${TUT.length}</div><div class="qt">${t}</div><div class="bar"><i style="width:${Math.min(100,a/b*100)}%"></i></div><div class="qf"><span>${Math.min(a,b)}/${b} · 보상 ¥${fmt(rw)}</span>${done?'<button class="b" id="qClaim">받기</button>':''}</div>`;
+   if(done)$('qClaim').onclick=()=>{m.tut++;reward(rw,'튜토리얼')}}
+  else{const ready=[...m.daily.list,...m.weekly.list].filter(q=>!q.claimed&&cur(q)>=q.goal).length+milesReady().length;
+   box.innerHTML=`<div class="qh">📜 오늘의 퀘스트 ${ready?`<b class="dot">${ready}</b>`:''}</div>`+m.daily.list.map(q=>`<div class="qs ${q.claimed?'ok':''}">${q.claimed?'✅':cur(q)>=q.goal?'🎁':'▫'} ${q.txt} <small>${fmt(Math.min(cur(q),q.goal))}/${fmt(q.goal)}</small></div>`).join('')+`<div class="qf"><span></span><button class="b g" id="qOpen">전체 보기</button></div>`;
+   $('qOpen').onclick=modalQuest}}
+ function milesReady(){const m=M(),out=[];for(const[key,steps,txt,rw]of MILES){for(const n of steps){const id=key+n;if(m.ms.includes(id))continue;const v=key=='served'?S.served:(st()[key]||0);if(v>=n)out.push({id,txt:txt.replace('{n}',fmt(n)),rw:Math.round(rw(n))});break}}return out}
+ function modalQuest(){const m=M();ensureSets();const el=$('modal');
+  const row=(q,grp,i)=>{const c=cur(q),ok=c>=q.goal;return`<div class="row"><span>${q.claimed?'✅':ok?'🎁':'▫'} ${q.txt} <small>(${fmt(Math.min(c,q.goal))}/${fmt(q.goal)})</small></span>${q.claimed?'<small>완료</small>':ok?`<button class="b" data-q="${grp}:${i}">¥${fmt(q.rw)} 받기</button>`:`<small>¥${fmt(q.rw)}</small>`}</div>`};
+  const ml=milesReady();const next=MILES.map(([key,steps,txt,rw])=>{const n=steps.find(n=>!m.ms.includes(key+n));if(!n)return`<div class="row"><span>🏆 ${txt.replace('{n}',fmt(steps[steps.length-1]))}</span><small>전부 달성</small></div>`;const v=key=='served'?S.served:(st()[key]||0);const r=ml.find(x=>x.id==key+n);
+   return`<div class="row"><span>🏆 ${txt.replace('{n}',fmt(n))} <small>(${fmt(Math.min(v,n))}/${fmt(n)})</small></span>${r?`<button class="b" data-m="${r.id}">¥${fmt(r.rw)} 받기</button>`:`<small>¥${fmt(Math.round(rw(n)))}</small>`}</div>`}).join('');
+  el.innerHTML=`<h3>📜 퀘스트</h3><b>오늘 (Day ${m.daily.day})</b>${m.daily.list.map((q,i)=>row(q,'d',i)).join('')}<b style="display:block;margin-top:8px">이번 주</b>${m.weekly.list.map((q,i)=>row(q,'w',i)).join('')}<b style="display:block;margin-top:8px">마일스톤</b>${next}<div style="text-align:right"><button class="b g" onclick="this.closest('.panel').style.display='none'">닫기</button></div>`;
+  el.style.display='block';
+  el.querySelectorAll('[data-q]').forEach(b=>b.onclick=()=>{const[g,i]=b.dataset.q.split(':');const q=(g=='d'?m.daily:m.weekly).list[i];q.claimed=true;reward(q.rw,'퀘스트');modalQuest()});
+  el.querySelectorAll('[data-m]').forEach(b=>b.onclick=()=>{const r=milesReady().find(x=>x.id==b.dataset.m);if(!r)return;m.ms.push(r.id);reward(r.rw,'마일스톤');modalQuest()})}
+ // ----- 도감 -----
+ const GKINDS=[['cw1','파란 유카타'],['cw2','분홍 유카타'],['cw3','초록 유카타'],['cw4','베이지 유카타'],['vip','VIP 손님']];
+ function modalBook(){const m=M(),el=$('modal');const cell=(img,name,got,sub,filter)=>`<div class="bk ${got?'':'no'}">${img?`<img src="assets/${img}.png" style="${filter?'filter:'+filter:''}">`:'<div class="ph">?</div>'}<b>${got?name:'???'}</b><small>${got?sub||'':''}</small></div>`;
+  const items=Object.entries(DEF).filter(([k,d])=>d.tab&&!d.erase);const gotI=items.filter(([k])=>m.col.i[k]).length;
+  el.innerHTML=`<h3>📖 도감</h3><b>손님 (${GKINDS.filter(([k])=>m.col.g[k]).length+REGS.filter(([n])=>m.regs[n]).length}/${GKINDS.length+REGS.length})</b><div class="bkg">${GKINDS.map(([k,n])=>cell(k=='vip'?'cw1':k,n,m.col.g[k],'',k=='vip'?'sepia(1) saturate(3) hue-rotate(-10deg)':'')).join('')}${REGS.map(([n,img,d])=>cell(img,'단골 '+n,m.regs[n],m.regs[n]?`${d} · ${m.regs[n].v}회 방문`:'')).join('')}</div>
+  <b style="display:block;margin-top:8px">시설·장식 (${gotI}/${items.length})</b><div class="bkg">${items.map(([k,d])=>{const lv=m.col.i[k]||0;const img=d.img?(TIERED.includes(d.img)?d.img+'_lv'+(lv>=5?5:lv>=3?3:1):d.img):null;return cell(img,d.n,lv,d.price?`최고 Lv.${lv}`:'',d.filter)}).join('')}</div>
+  <div style="text-align:right"><button class="b g" onclick="this.closest('.panel').style.display='none'">닫기</button></div>`;el.style.display='block'}
+ // ----- 리뷰 -----
+ const RV={5:['최고의 온천이에요! 또 올게요','물이 정말 좋고 직원도 친절해요','여기서 평생 살고 싶어요'],4:['편안하게 쉬다 갑니다','분위기가 참 좋아요','다음엔 친구랑 올래요'],3:['나쁘지 않았어요','무난한 온천이에요','조금 더 볼거리가 있으면 좋겠어요'],2:['좀 비싸요…','기다리는 시간이 길었어요','먹을 곳이 부족해요'],1:['다신 안 올래요','실망했어요','시설이 너무 부족해요']};
+ function review(g){const sc=g.happy>82?5:g.happy>66?4:g.happy>48?3:g.happy>30?2:1;const m=M();let t=RV[sc][Math.random()*3|0];
+  if(sc<=2&&g.need.hunger>60)t='배고팠는데 먹을 곳이 없었어요';if(sc<=2&&g.need.thirst>60)t='목이 말랐어요. 매점이 더 있었으면';
+  if(sc>=4&&g.used&&g.used.length){const o=g.used[g.used.length-1];if(o&&DEF[o.k])t+=` (${DEF[o.k].n} 추천!)`}
+  m.reviews.unshift({n:g.reg||(g.vip?'VIP 손님':'손님'),s:sc,t,d:dayN()});if(m.reviews.length>30)m.reviews.length=30;if(sc>=4)st().good++}
+ function modalReviews(){const m=M(),el=$('modal');const avg=m.reviews.length?m.reviews.reduce((a,r)=>a+r.s,0)/m.reviews.length:0;
+  el.innerHTML=`<h3>⭐ 손님 리뷰 <small>평균 ${avg.toFixed(1)} / 5 (최근 ${m.reviews.length}개)</small></h3>`+(m.reviews.map(r=>`<div class="row"><span><b>${r.n}</b> <span class="stars">${'★'.repeat(r.s)}<span style="color:#cdbb9c">${'★'.repeat(5-r.s)}</span></span><br><small>${r.t}</small></span><small>Day ${r.d}</small></div>`).join('')||'<div>아직 리뷰가 없어요</div>')+`<div style="text-align:right"><button class="b g" onclick="this.closest('.panel').style.display='none'">닫기</button></div>`;el.style.display='block'}
+ // ----- 연출 -----
+ let coinT=0;
+ function flyCoin(sx,sy){const yb=$('yen').getBoundingClientRect();const c=document.createElement('div');c.className='flycoin';c.textContent='¥';c.style.left=sx+'px';c.style.top=sy+'px';document.body.appendChild(c);
+  requestAnimationFrame(()=>{c.style.left=(yb.left+6)+'px';c.style.top=(yb.top+4)+'px';c.style.transform='scale(0.6)';c.style.opacity='0.4'});setTimeout(()=>{c.remove();const y=$('yen').parentNode;y.classList.remove('bump');void y.offsetWidth;y.classList.add('bump')},650)}
+ function burst(){for(let i=0;i<14;i++){const r=$('quest').getBoundingClientRect();flyCoin(r.left+r.width/2+(Math.random()-0.5)*80,r.top+r.height/2+(Math.random()-0.5)*30)}}
+ function flash(){const f=document.createElement('div');f.className='flash';document.body.appendChild(f);setTimeout(()=>f.remove(),500)}
+ // ----- 이벤트 -----
+ BUS.on('pay',(o,g,p)=>{st().earned+=p;if(g.vip)st().vip++;const now=performance.now();if(now-coinT>180){coinT=now;const[sx,sy]=toScreenT(...ctr(o));if(sx>0&&sy>0&&sx<innerWidth&&sy<innerHeight){flyCoin(sx,sy-20);SND.coin()}}});
+ BUS.on('build',o=>{const d=DEF[o.k];st().built++;if(d.tab=='deco'&&!d.isPath)st().decor++;M().col.i[o.k]=Math.max(M().col.i[o.k]||0,1);SND.build()});
+ BUS.on('upgrade',o=>{st().upgrades++;M().col.i[o.k]=Math.max(M().col.i[o.k]||0,o.lv);SND.upgrade();if(o.lv==3||o.lv==5)flash()});
+ BUS.on('unlock',()=>{st().unlock++;SND.unlock()});
+ BUS.on('paint',(k,n)=>{st().paint+=n;M().col.i[k]=Math.max(M().col.i[k]||0,1)});
+ BUS.on('spawn',g=>{const m=M();m.col.g[g.vip?'vip':g.spr]=1;
+  if(!g.vip&&S.served>=15&&Math.random()<0.14){const free=REGS.filter(([n])=>!guests.some(x=>x.reg==n));if(free.length){const[n,img]=free[Math.random()*free.length|0];g.reg=n;g.spr=img;g.budget+=1500;g.happy+=8;const r=m.regs[n]=m.regs[n]||{v:0};r.v++;st().regular++;if(r.v==1)toast(`🦫 새 단골 손님 '${n}'이(가) 찾아왔어요!`);setTimeout(()=>think(g,r.v>1?`${n}: 또 왔어요~ (${r.v}번째)`:`${n}: 처음 왔어요!`),1200)}}
+  if(g.vip)setTimeout(()=>think(g,'VIP: 최고의 서비스를 기대할게요'),1000)});
+ BUS.on('leave',g=>review(g));
+ BUS.on('hour',()=>render_());
+ BUS.on('text',t=>{if(cam.z<2.2)return;t.font='700 11px Pretendard';for(const g of guests){if(!(g.reg||g.vip)||g.hide||g.inBath)continue;const[X,Y]=toScreenT(g.x,g.y);const s=g.reg||'VIP';const w=t.measureText(s).width+10;t.fillStyle=g.vip?'rgba(200,150,30,0.9)':'rgba(60,110,170,0.9)';rr(t,X-w/2,Y+4,w,15,7);t.fill();t.fillStyle='#fff';t.fillText(s,X,Y+12)}});
+ // 가격 조정 감지
+ document.addEventListener('click',e=>{if(e.target.closest&&e.target.closest('[data-p]'))st().price++;if(e.target.closest&&e.target.closest('button,.card,.tab'))SND.click()},true);
+ // 도구 버튼
+ const tools=$('tools');const mkT=(ic,lb,fn)=>{const b=document.createElement('button');b.className='tool';b.innerHTML=`${ic}<i>${lb}</i>`;b.onclick=fn;tools.insertBefore(b,tools.querySelector('.zoom'));return b};
+ mkT('📜','퀘스트',modalQuest);mkT('📖','도감',modalBook);mkT('⭐','리뷰',modalReviews);
+ const mute=document.createElement('div');mute.className='box btn';mute.id='bMute';mute.textContent=SND.muted()?'🔇':'🔊';mute.onclick=()=>{mute.textContent=SND.toggle()?'🔇':'🔊'};$('bSpeed').before(mute);
+ setInterval(()=>{if(S)render_()},1000);
+ return{render:render_,modalQuest,modalBook,modalReviews,M,TUT,milesReady}})();

diff --git a/audio.js b/audio.js
@@ -1,0 +1,33 @@
+'use strict';
+// ===== 절차적 사운드 (WebAudio) =====
+const SND=(()=>{let ac=null,master=null,amb=null,bgmOn=false,muted=localStorage.onsenMute==='1';const api={};
+ function init(){if(ac)return;try{ac=new (window.AudioContext||window.webkitAudioContext)()}catch(e){return}
+  master=ac.createGain();master.gain.value=muted?0:0.8;master.connect(ac.destination);startAmbient();startBgm()}
+ function env(g,t,a,d,peak){g.gain.setValueAtTime(0.0001,t);g.gain.exponentialRampToValueAtTime(peak,t+a);g.gain.exponentialRampToValueAtTime(0.0001,t+a+d)}
+ function tone(f,type,dur,vol,when=0,dest=master){if(!ac)return;const t=ac.currentTime+when,o=ac.createOscillator(),g=ac.createGain();o.type=type;o.frequency.setValueAtTime(f,t);o.connect(g);g.connect(dest);env(g,t,0.005,dur,vol);o.start(t);o.stop(t+dur+0.05);return o}
+ function noiseBuf(sec){const b=ac.createBuffer(1,ac.sampleRate*sec,ac.sampleRate),d=b.getChannelData(0);let last=0;for(let i=0;i<d.length;i++){last=(last+0.02*(Math.random()*2-1))/1.02;d[i]=last*3.5}return b}
+ function startAmbient(){ // 물소리: 브라운 노이즈 + 저역통과 + LFO
+  const src=ac.createBufferSource();src.buffer=noiseBuf(4);src.loop=true;const lp=ac.createBiquadFilter();lp.type='lowpass';lp.frequency.value=700;
+  const g=ac.createGain();g.gain.value=0.09;const lfo=ac.createOscillator(),lg=ac.createGain();lfo.frequency.value=0.13;lg.gain.value=0.035;lfo.connect(lg);lg.connect(g.gain);
+  src.connect(lp);lp.connect(g);g.connect(master);src.start();lfo.start();amb=g;
+  // 풍경(風鈴)
+  (function chime(){if(!ac)return;const sc=[1318.5,1568,1760,2093,2349.3,2637];const n=1+(Math.random()*3|0);for(let i=0;i<n;i++){const f=sc[Math.random()*sc.length|0];tone(f,'sine',2.4,0.035,i*0.12);tone(f*2.76,'sine',0.8,0.008,i*0.12)}setTimeout(chime,4000+Math.random()*7000)})()}
+ function startBgm(){ // 고토 느낌 펜타토닉 플럭
+  const sc=[293.66,349.23,392,440,523.25,587.33,698.46];let i=3;bgmOn=true;
+  const bg=ac.createGain();bg.gain.value=0.5;bg.connect(master);
+  function pluck(f,when,v){const t=ac.currentTime+when;const o=ac.createOscillator(),o2=ac.createOscillator(),g=ac.createGain(),lp=ac.createBiquadFilter();lp.type='lowpass';lp.frequency.setValueAtTime(f*6,t);lp.frequency.exponentialRampToValueAtTime(f*1.2,t+0.8);
+   o.type='triangle';o2.type='sawtooth';o.frequency.value=f;o2.frequency.value=f*1.003;const g2=ac.createGain();g2.gain.value=0.25;o.connect(g);o2.connect(g2);g2.connect(g);g.connect(lp);lp.connect(bg);env(g,t,0.004,1.6,v);o.start(t);o2.start(t);o.stop(t+1.8);o2.stop(t+1.8)}
+  (function step(){if(!ac)return;const r=Math.random();if(r<0.75){i=Math.max(0,Math.min(sc.length-1,i+[-2,-1,-1,1,1,2][Math.random()*6|0]));pluck(sc[i],0,0.05);if(Math.random()<0.25)pluck(sc[Math.max(0,i-2)]/2,0.02,0.03)}
+   setTimeout(step,[650,650,1300,975][Math.random()*4|0])})();
+  (function drone(){if(!ac)return;pluck(146.83,0,0.03);pluck(220,0.05,0.02);setTimeout(drone,5200)})()}
+ api.init=init;
+ api.coin=()=>{if(!ac)return;tone(1318,'square',0.06,0.03);tone(1975,'square',0.12,0.025,0.05)};
+ api.build=()=>{if(!ac)return;tone(110,'sine',0.25,0.15);tone(70,'triangle',0.3,0.1,0.02);for(let i=0;i<4;i++)tone(1500+i*300,'sine',0.15,0.02,0.08+i*0.04)};
+ api.upgrade=()=>{if(!ac)return;[523,659,784,1046,1318].forEach((f,i)=>tone(f,'triangle',0.35,0.05,i*0.07))};
+ api.click=()=>{if(!ac)return;tone(880,'sine',0.04,0.03)};
+ api.quest=()=>{if(!ac)return;[784,988,1175,1568].forEach((f,i)=>{tone(f,'sine',1.2,0.05,i*0.09);tone(f*2,'sine',0.5,0.01,i*0.09)})};
+ api.unlock=()=>{if(!ac)return;[392,523,659,784,1046].forEach((f,i)=>tone(f,'triangle',0.6,0.06,i*0.1))};
+ api.toggle=()=>{muted=!muted;localStorage.onsenMute=muted?'1':'0';if(master)master.gain.value=muted?0:0.8;return muted};
+ api.muted=()=>muted;
+ return api})();
+addEventListener('pointerdown',()=>SND.init(),{once:false,capture:true});

diff --git a/style.css b/style.css
@@ -48,3 +48,14 @@ canvas{display:block;position:fixed;left:0;top:0}#tc{pointer-events:none}
 
 #moveBar{position:fixed;top:64px;left:50%;transform:translateX(-50%);display:none;z-index:8}#moveBar button{font-family:inherit;background:#c0703a;color:#fff;border:0;border-radius:5px;padding:4px 10px;cursor:pointer}
 #warn{position:fixed;top:104px;left:50%;transform:translateX(-50%);display:none;background:#fff3d6;border:2px solid #d0782a;color:#8a3a10;border-radius:8px;padding:6px 12px;font-size:13px;font-weight:600;z-index:7}
+#quest{position:fixed;left:8px;top:64px;width:250px;background:linear-gradient(#fbf1dc,#efdcb6);border:2px solid #8a6238;border-radius:10px;box-shadow:0 3px 0 #5b3e22;padding:8px 10px;font-size:13px;z-index:3}
+#quest .qh{font-weight:800;margin-bottom:3px}#quest .qt{font-weight:600}#quest .qf{display:flex;justify-content:space-between;align-items:center;font-size:12px;color:#7a5a3a}
+#quest .qs{font-size:12px;padding:1px 0}#quest .qs.ok{opacity:.55;text-decoration:line-through}#quest .dot{background:#d0582a;color:#fff;border-radius:9px;padding:0 6px;font-size:11px}
+#quest button.b,.panel button.b{background:#c0703a;color:#fff;border:0;border-radius:5px;padding:4px 9px;cursor:pointer;font-family:inherit;box-shadow:0 2px 0 #7a3f1a}#quest button.b.g{background:#8a9a6a;box-shadow:0 2px 0 #4f5a3a}
+.flycoin{position:fixed;z-index:20;width:20px;height:20px;border-radius:50%;background:#f2c14e;border:1px solid #b98a2a;color:#7a5410;font-weight:800;font-size:12px;display:flex;align-items:center;justify-content:center;pointer-events:none;transition:left .6s cubic-bezier(.5,-0.3,.7,1),top .6s cubic-bezier(.3,.6,.6,1),transform .6s,opacity .6s;box-shadow:0 0 8px #ffd65a}
+.bump{animation:bump .25s}@keyframes bump{50%{transform:scale(1.12)}}
+.flash{position:fixed;inset:0;background:radial-gradient(circle,rgba(255,248,210,.55),rgba(255,248,210,0) 70%);pointer-events:none;z-index:15;animation:fl .5s forwards}@keyframes fl{to{opacity:0}}
+.bkg{display:grid;grid-template-columns:repeat(auto-fill,minmax(84px,1fr));gap:6px;margin:4px 0}
+.bk{background:#fff7e6;border:2px solid #d8bb8e;border-radius:6px;padding:4px;text-align:center;font-size:11px}.bk img{height:46px;max-width:100%;object-fit:contain;display:block;margin:0 auto}.bk b{display:block;font-size:12px}
+.bk.no img{filter:brightness(0) opacity(.25)!important}.bk .ph{height:46px;display:flex;align-items:center;justify-content:center;font-size:24px;color:#bba}
+@media (max-width:820px){#quest{top:auto;bottom:calc(42vh + 66px);width:200px;font-size:12px;padding:6px 8px}#quest .qs{display:none}}

diff --git a/shot5.js b/shot5.js
@@ -1,0 +1,7 @@
+const {chromium}=require('playwright');
+(async()=>{const b=await chromium.launch();const errs=[];const p=await b.newPage({viewport:{width:1000,height:700}});
+ p.on('pageerror',e=>errs.push(e.message));p.on('console',m=>m.type()=='error'&&errs.push(m.text()));
+ await p.goto('http://localhost:8765/index.html');await p.waitForFunction(()=>window.__ready);
+ await p.evaluate(()=>{__dbg.setHour(15);__dbg.guests().length=0;const g=__dbg.gate();__dbg.focus(g.x+1.5,g.y-0.5,5);document.querySelectorAll('#top,#tools').forEach(e=>e.style.display='none');document.getElementById('build').style.display='none';document.getElementById('quest').style.display='none';__dbg.spawn()});
+ for(let i=0;i<8;i++){await p.waitForTimeout(380);await p.screenshot({path:`/tmp/f${i}.png`,clip:{x:180,y:80,width:400,height:440}})}
+ console.log('ERR',JSON.stringify(errs));await b.close()})();

diff --git a/index.html b/index.html
@@ -32,4 +32,6 @@
 <div id="warn"></div>
 <div id="moveBar" class="box"><span>🔀 이동 중 — 놓을 곳을 눌러주세요</span><button id="mvCancel">취소</button></div>
 <script src="game.js"></script>
+<script src="audio.js"></script>
+<script src="meta.js"></script>
 </body></html>

diff --git a/CHANGELOG.md b/CHANGELOG.md
@@ -1,0 +1,24 @@
+# CHANGELOG — 유자 온센 료칸 타이쿤
+
+## v2.4 (2026-10-22)
+- 대문 2.5D 레이어: 문턱(바닥)·뒤 기둥·앞 기둥(개별 깊이정렬)·지붕/노렌(항상 손님 위) 분리, 문턱 높이(z) 3px, 지나갈 때 노렌 흔들림
+- 엔티티 z 높이 지원, 멀티 레이어 스프라이트(splitLayers) 일반화 — Lv5 정자 지붕 탕은 지붕이 입욕 손님 위로
+- 대문 주변 로프 울타리 자동 개방
+- 튜토리얼 퀘스트 10단계, 일일 퀘스트 3개 / 주간 퀘스트 2개, 마일스톤, 도감(손님·단골·시설·장식), 단골 손님 8명(이름표·방문 횟수), VIP(금빛 오라), 손님 리뷰
+- 절차적 사운드(WebAudio): 물소리 앰비언트, 풍경 소리, 고토 풍 BGM, 동전·건설·업그레이드·퀘스트·클릭 효과음, 음소거 토글
+- 동전이 자금 표시로 날아가는 연출, 자금 바운스, Lv3/Lv5 업그레이드 화면 플래시
+- 길 유지비 제외(길 타일이 시간당 유지비를 먹던 문제 수정)
+
+## v2.3
+- 업그레이드 단계별 외관(Lv1/3/5) 10종 시설, 업그레이드 반짝이·먼지 연출
+- 길 4종(돌길·나무 데크·자갈·다다미) 드래그 페인트, 오토타일 테두리, 길 지우기
+- 대문(이동 전용, 가장자리 스냅), 손님 입·퇴장, 도달 불가 경고
+
+## v2.2
+- 건물 이동 모드, 16×16 구역 / 48×48 맵, 레이아웃 마이그레이션
+
+## v2.1
+- 풋프린트 맞춤 스프라이트, 점유 그리드, 깊이 정렬, A* 길찾기, 그리드 표시
+
+## v2.0
+- 아이소메트릭 픽셀아트, 시간대 조명, 카피바라 손님, RCT식 경제
